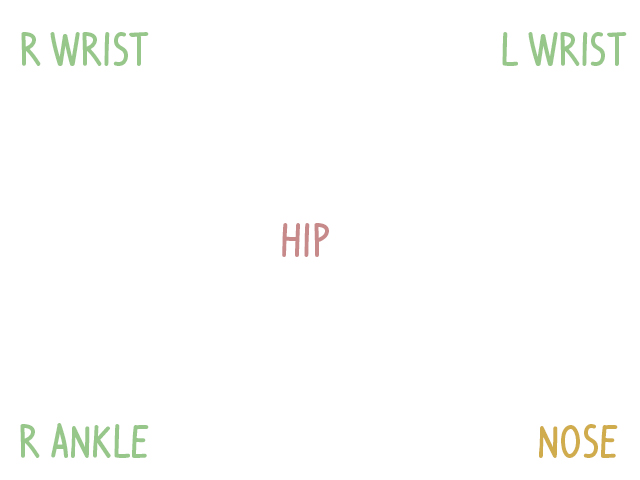
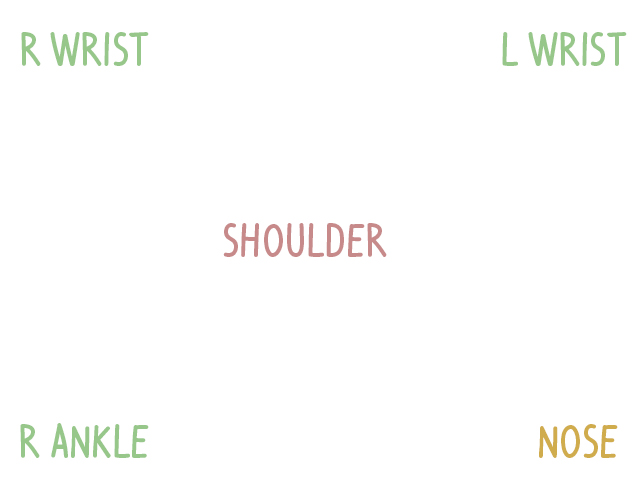
:sparkles: change colors to images

Changed region(s): [[0.3438, 0.4375, 0.625, 0.5312]]

diff --git a/cel/script.js b/cel/script.js
@@ -19,16 +19,16 @@ function gotPoses(poses) {
       pose = poses[0].pose;
 
       if (200 < pose.rightShoulder.x && pose.rightShoulder.x < 400 && 100 < pose.leftShoulder.y && pose.leftShoulder.y < 300){
-         body.style.backgroundColor = "#b57777";
+         body.style.backgroundImage = "url('rose.jpg')";
       } else if  (pose.nose.x > 500 && pose.nose.y > 400){
-         body.style.backgroundColor = "#d0ac4d";
+         body.style.backgroundImage = "url('jaune.jpg')";
       } else if (pose.leftWrist.x > 300 && pose.leftWrist.y < 300 &&
          pose.rightWrist.x < 300 && pose.rightWrist.y < 300 &&
          pose.rightAnkle.x < 320 && pose.rightAnkle.x > 240 
          ){
-         body.style.backgroundColor = "#97c78a";
+            body.style.backgroundImage = "url('vert.jpg')";
       } else {
-         body.style.backgroundColor = "#000";
+         body.style.backgroundImage = "url('noir.jpg')";
       }   
    }
 }
